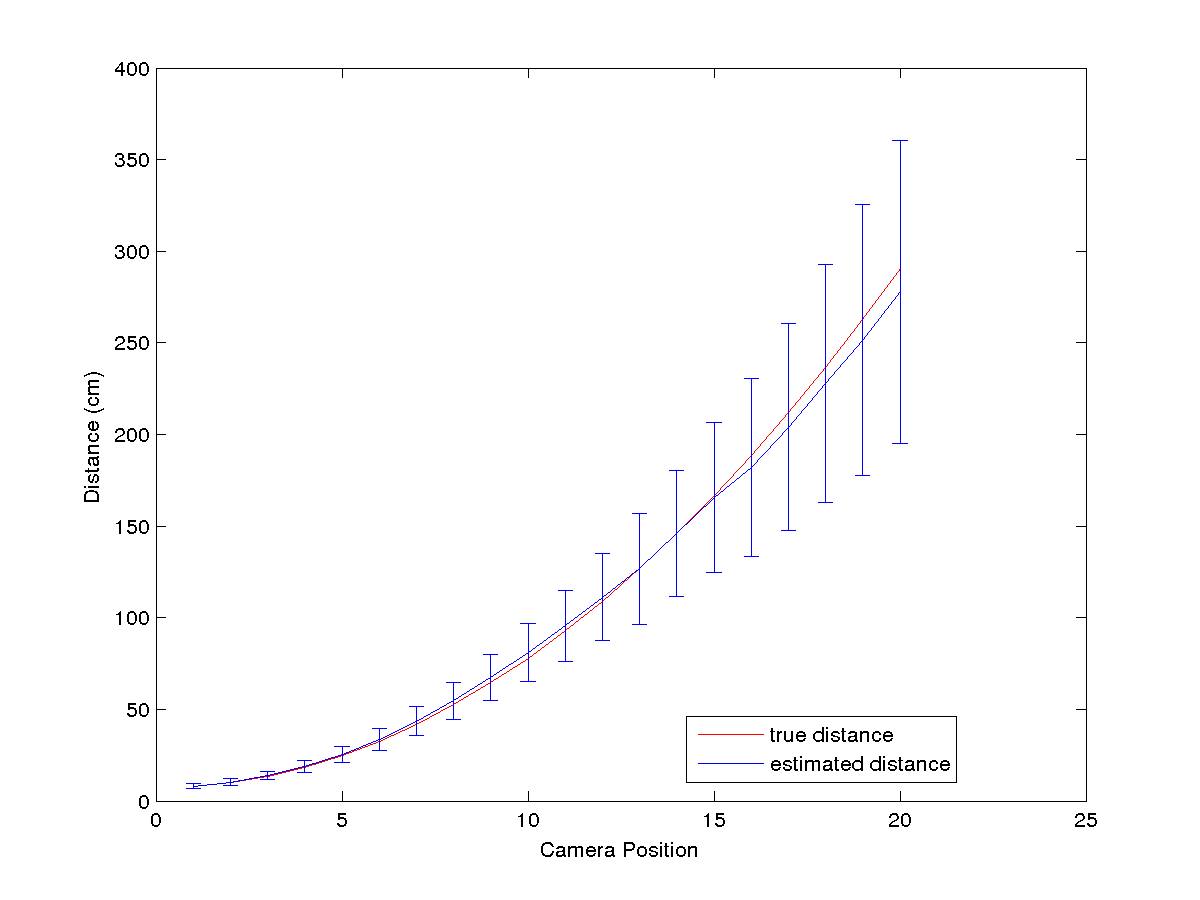
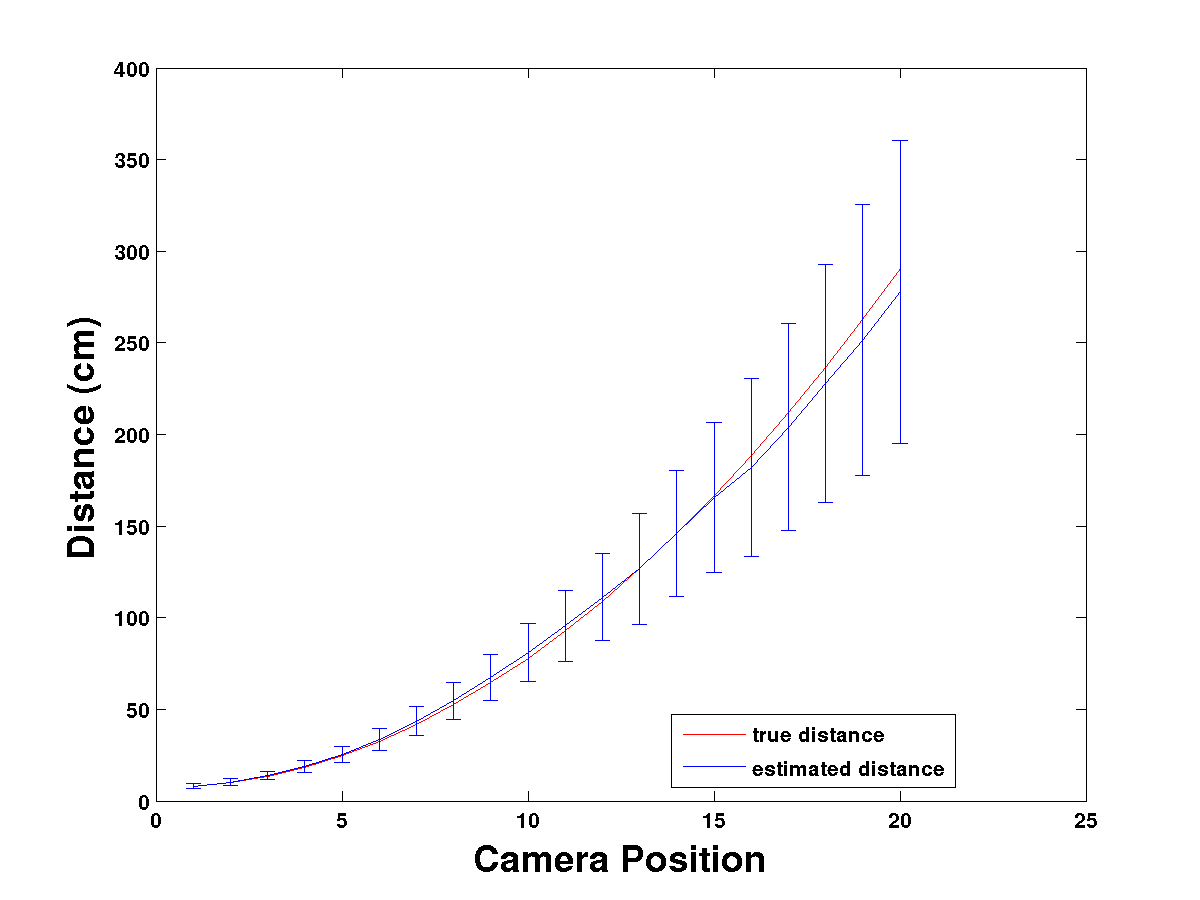
increasing font size in figures

Changed region(s): [[0.5858, 0.8089, 0.8017, 0.8711], [0.0308, 0.3422, 0.0925, 0.6222], [0.4008, 0.9333, 0.6475, 0.9644]]

diff --git a/src/main/latex/facePoseISVC2013.tex b/src/main/latex/facePoseISVC2013.tex
@@ -287,7 +287,7 @@ In this paper, we have used a dataset consisting of facial range images with man
 Furthermore we assume an ideal pinhole camera model and we control the pose of both head and camera.  
 This simplifies the problem since we have accurate ground truth 2D and 3D fiducial locations. 
 For future work, we plan to use methods for detecting fiducials such as \cite{belhumeur2011localizing}, or naturally ocurring features (e.g. SIFT features \cite{lowe}) as in \cite{ohayon2006robust}.
-Replicating these results on real images is also future research direction.
+Replicating these results on real images captured in the wild.
 
 
 \bibliographystyle{splncs}
